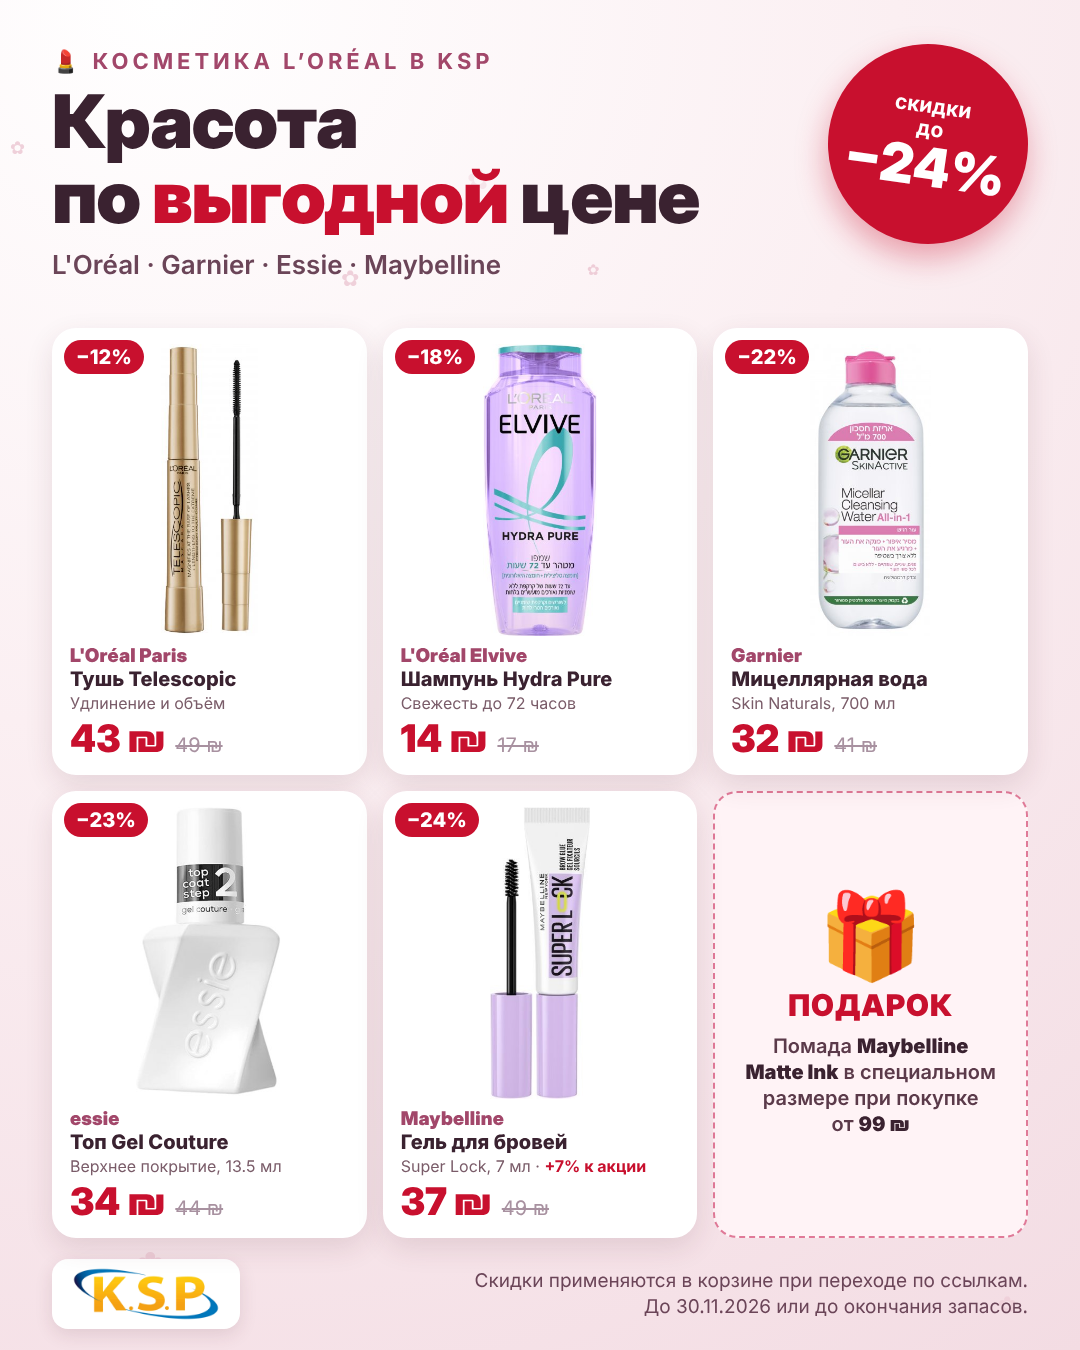
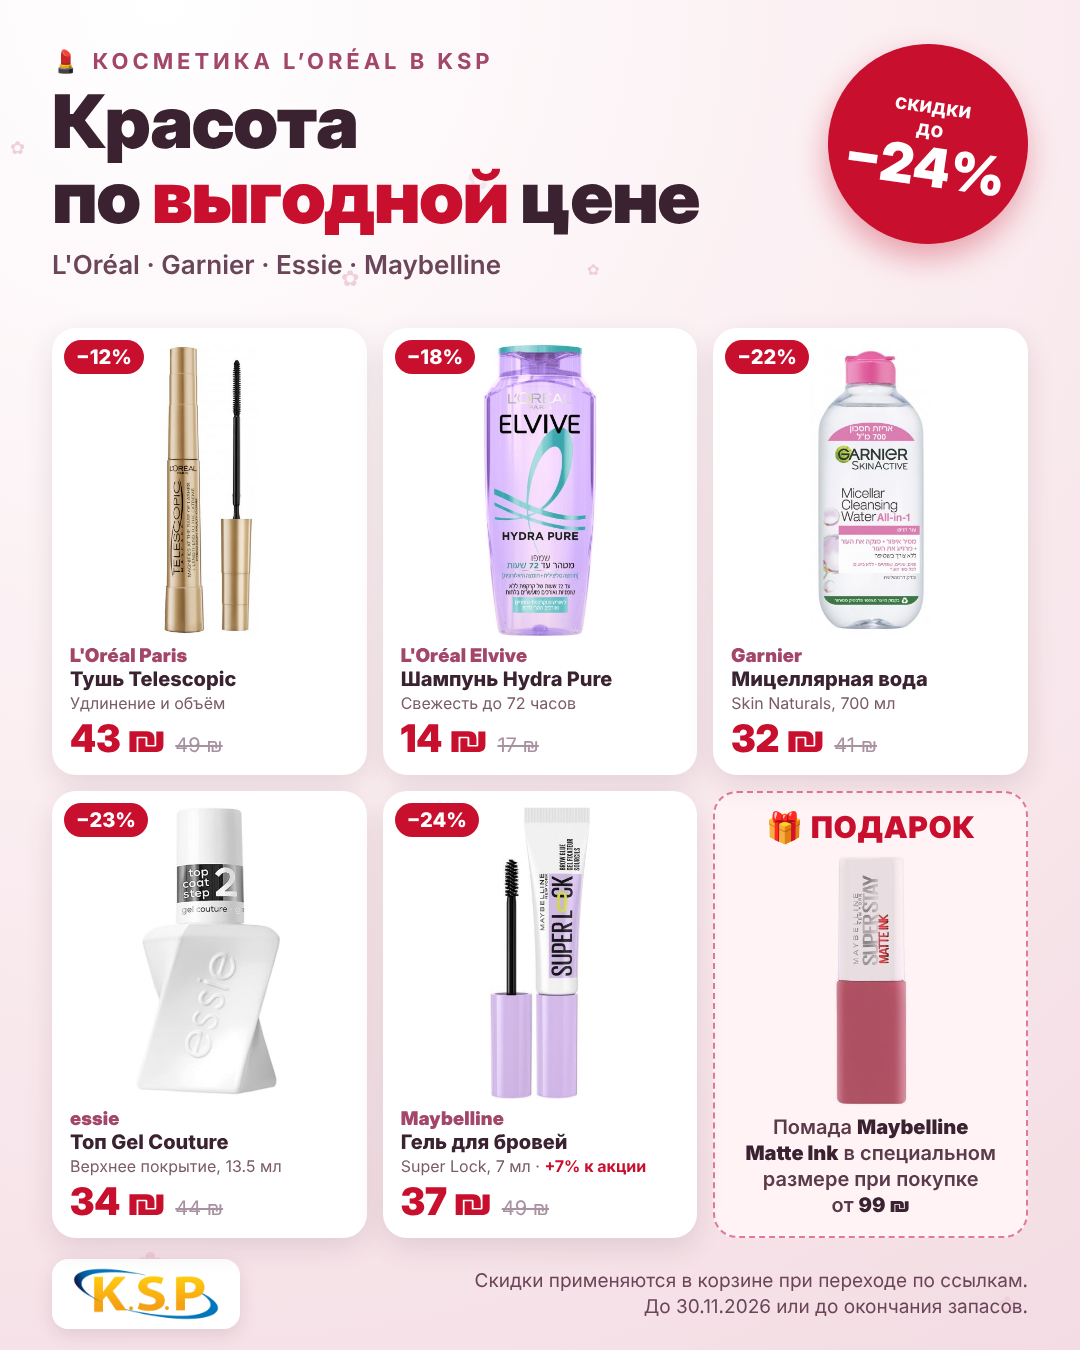
Add Maybelline Matte Ink gift photo to L'Oréal promo
Claude-Session: https://claude.ai/code/session_01G3xLikWFack3bze3pWJxPE

Changed region(s): [[0.6722, 0.6533, 0.9167, 0.9022], [0.7028, 0.5911, 0.9167, 0.6222]]

diff --git a/ksp-loreal-promo/render.js b/ksp-loreal-promo/render.js
@@ -48,8 +48,9 @@ h1 em { font-style: normal; color: #c8102e; }
 .price .now { font-family: 'Inter Display'; font-weight: 900; font-size: 38px; color: #c8102e; }
 .price .was { font-size: 20px; color: #a891a0; text-decoration: line-through; }
 .info .s .x { color: #c8102e; }
-.gift { background: #fff3f6; border: 2px dashed #e07a98; border-radius: 24px; display: flex; flex-direction: column; align-items: center; justify-content: center; text-align: center; padding: 22px; gap: 10px; }
-.gift .ico { font-size: 84px; line-height: 1; }
+.gift { background: #fff3f6; border: 2px dashed #e07a98; border-radius: 24px; display: flex; flex-direction: column; align-items: center; justify-content: center; text-align: center; padding: 16px 18px 18px; gap: 8px; }
+.gift .gph { flex: 1; min-height: 0; width: 100%; position: relative; }
+.gift .gph img { position: absolute; inset: 0; width: 100%; height: 100%; object-fit: contain; mix-blend-mode: multiply; }
 .gift b { font-family: 'Inter Display'; font-weight: 900; font-size: 30px; color: #c8102e; text-transform: uppercase; letter-spacing: .04em; }
 .gift p { font-size: 20px; line-height: 1.3; font-weight: 600; color: #5b3a4a; }
 .gift p strong { color: #3a2230; }
@@ -82,7 +83,7 @@ const html = `<!doctype html><html lang="ru"><head><meta charset="utf-8"><style>
   <h1>Красота<br>по <em>выгодной</em> цене</h1>
   <div class="brands">L'Oréal · Garnier · Essie · Maybelline</div></div>
   <div class="promo"><small>скидки<br>до</small><b>−${maxOff}%</b></div>
-  <div class="grid">${P.map(card).join('')}<div class="gift"><div class="ico">🎁</div><b>Подарок</b><p>Помада <strong>Maybelline Matte&nbsp;Ink</strong> в&nbsp;специальном размере при&nbsp;покупке от&nbsp;<strong>99&nbsp;₪</strong></p></div></div>
+  <div class="grid">${P.map(card).join('')}<div class="gift"><b>🎁 Подарок</b><div class="gph"><img src="${img('maybelline-matte-ink.jpg')}"></div><p>Помада <strong>Maybelline Matte&nbsp;Ink</strong> в&nbsp;специальном размере при&nbsp;покупке от&nbsp;<strong>99&nbsp;₪</strong></p></div></div>
   <div class="foot"><div class="ksp"><img src="${img('ksp-logo.png')}"></div><p>Скидки применяются в корзине при переходе по ссылкам.<br>До 30.11.2026 или до окончания запасов.</p></div>
 </div></body></html>`;
 
